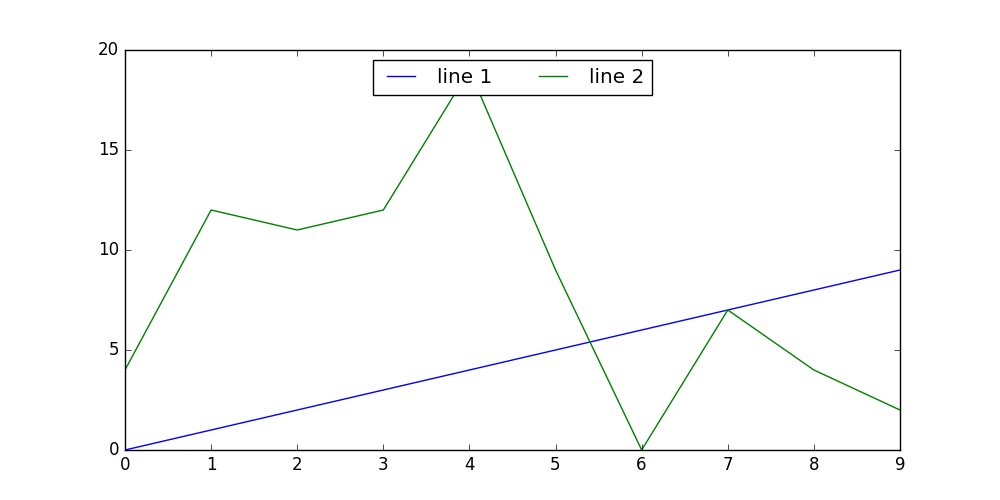
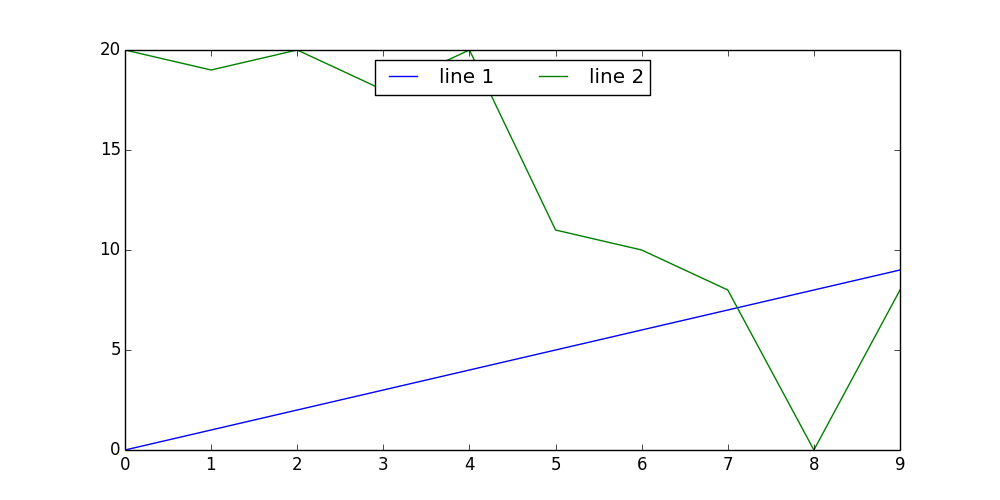
Draw donations data on chart

diff --git a/sample_plot.py b/sample_plot.py
@@ -1,0 +1,33 @@
+from collections import defaultdict
+import matplotlib.pyplot as plt
+import csv, sys, datetime
+
+
+reader = csv.DictReader(open(sys.argv[1], 'r'))
+#McCain
+obamadonations = defaultdict(lambda:0)
+mccaindonations = defaultdict(lambda:1)
+
+for row in reader:
+    name = row['cand_nm']
+    datestr = row['contb_receipt_dt']
+    amount = float(row['contb_receipt_amt'])
+    date = datetime.datetime.strptime(datestr, '%d-%b-%y')
+
+    if 'Obama' in name:
+        obamadonations[date] += amount
+    if 'McCain' in name:
+        mccaindonations[date] += amount
+
+
+    #dictionaries
+sorted_by_date_0 = sorted(obamadonations.items(), key=lambda(key, val): key)
+sorted_by_date_1 = sorted(mccaindonations.items(), key=lambda(key, val): key)
+xs, ys0 = zip(*sorted_by_date_0)
+plt.plot(xs, ys0, label='Obama')
+#xs, ys1 = zip(*sorted_by_date_1)
+xs, ys0 = zip(*sorted_by_date_1)
+
+plt.plot(xs, ys0, label='McCain')
+plt.legend(loc = 'upper center', ncol = 4)
+plt.savefig('test.png', format='png')
